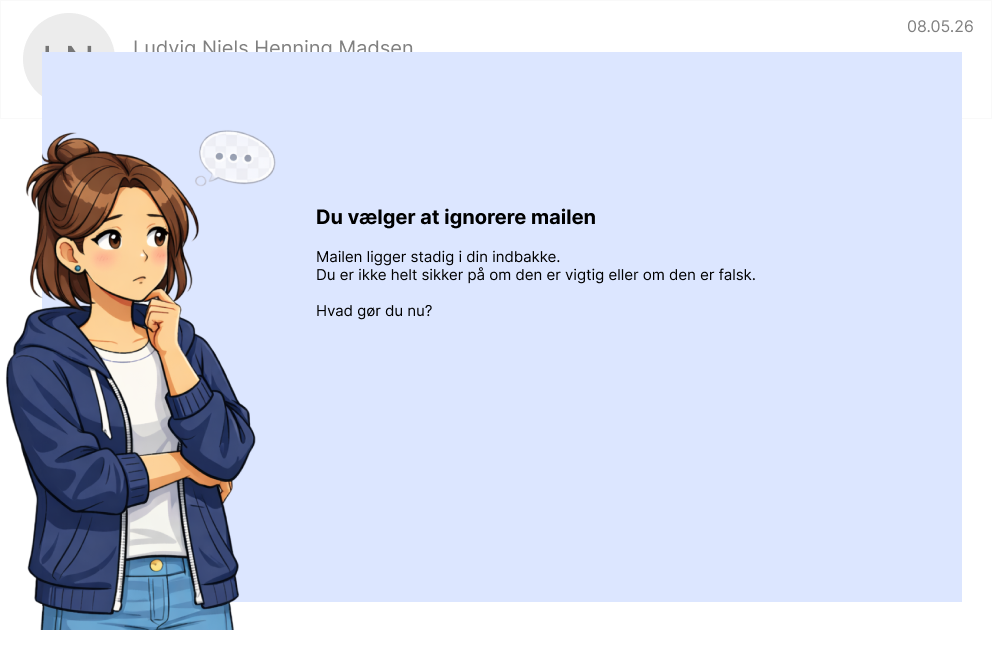
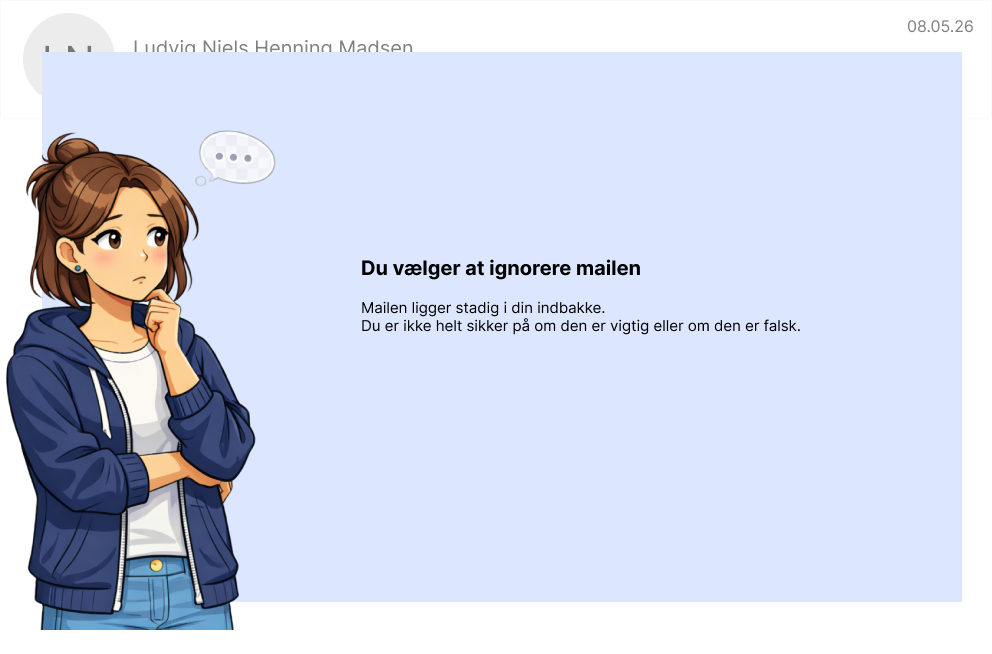
Ændret små fejl i js + html

Changed region(s): [[0.3125, 0.3058, 0.75, 0.4281], [0.3125, 0.4587, 0.8125, 0.5199]]

diff --git a/index.html b/index.html
@@ -71,6 +71,7 @@
         <section class="stage 2c">
             <h2>Du vælger at ignorere mailen</h2>
             <img src="img/2C.png" alt="Du vælger at ignorere mailen, og kan nu have mistet vigtig information om dit studie">
+            <p>Hvad gør du nu?</p>
             <button class="btn">Ignorer og slet mailen helt</button>
             <button class="btn">Kontakt skolen via officielle kanaler</button>
         </section>

diff --git a/css/style.scss b/css/style.scss
@@ -3,7 +3,7 @@ $primaryColor: #000000;
 $cta: #d9d9d9;
 $ctaHover: #002432;
 $ctaHoverText: #e4e4e4;
-$space: 1rem;
+$space: 2rem;
 
 * {
     box-sizing: border-box;
@@ -13,5 +13,12 @@ $space: 1rem;
 img {
     max-width: 100%;
     height: auto;
+    padding: $space;
+}
+
+main {
+    background-color: $bg;
+    color: $primaryColor;
+    font-family: 'Segoe UI', Tahoma, Geneva, Verdana, sans-serif;
     padding: $space;
 }

diff --git a/css/style.css b/css/style.css
@@ -6,5 +6,12 @@
 img {
   max-width: 100%;
   height: auto;
-  padding: 1rem;
+  padding: 2rem;
+}
+
+main {
+  background-color: #ffffff;
+  color: #000000;
+  font-family: "Segoe UI", Tahoma, Geneva, Verdana, sans-serif;
+  padding: 2rem;
 }/*# sourceMappingURL=style.css.map */
